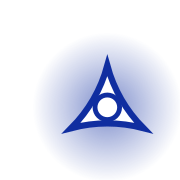
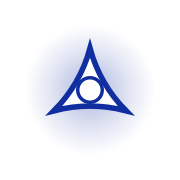
Fix off-center brand mark and refine stroke weights
The hero mark and favicon glow used a viewBox that didn't center on
the mark's true midpoint, shifting it ~10% down-right. Corrected the
viewBox on the homepage hero and regenerated all favicon sizes from
a properly centered source. Also brought the triangle/circle stroke
ratio in line with the nav logo (circle now visibly thinner), and
rebuilt the Open Graph image to match: centered mark, corrected
strokes, and title/subtitle styled after the guide's cover art
(navy blue title, gray uppercase subtitle).

Claude-Session: https://claude.ai/code/session_01XqCRE73cHTMSrtm1iPmbH4

Changed region(s): [[0.25, 0.2222, 0.9444, 0.9444]]

diff --git a/index.html b/index.html
@@ -126,7 +126,7 @@
   </svg>
   <div class="content">
     <div class="hero-mark-wrap">
-      <svg class="hero-mark-svg" viewBox="-75 -75 260 260" xmlns="http://www.w3.org/2000/svg">
+      <svg class="hero-mark-svg" viewBox="-50 -50 260 260" xmlns="http://www.w3.org/2000/svg">
         <defs>
           <radialGradient id="heroGlow" cx="50%" cy="50%" r="50%">
             <stop offset="0%" stop-color="#102EA0" stop-opacity="0.351"/>
@@ -137,7 +137,7 @@
         <circle class="hero-glow-circle" cx="80" cy="80" r="150" fill="url(#heroGlow)"/>
         <g class="hero-mark-shape">
           <path d="M 80,20 Q 94.3,71.8 132,110 Q 80,96.5 28,110 Q 65.7,71.8 80,20 Z"
-            stroke="#102EA0" stroke-width="6" fill="#FFFFFF" stroke-linejoin="miter" stroke-linecap="butt"/>
+            stroke="#102EA0" stroke-width="8" fill="#FFFFFF" stroke-linejoin="miter" stroke-linecap="butt"/>
           <circle cx="80" cy="80" r="17.75" stroke="#102EA0" stroke-width="5" fill="#FFFFFF"/>
         </g>
       </svg>
